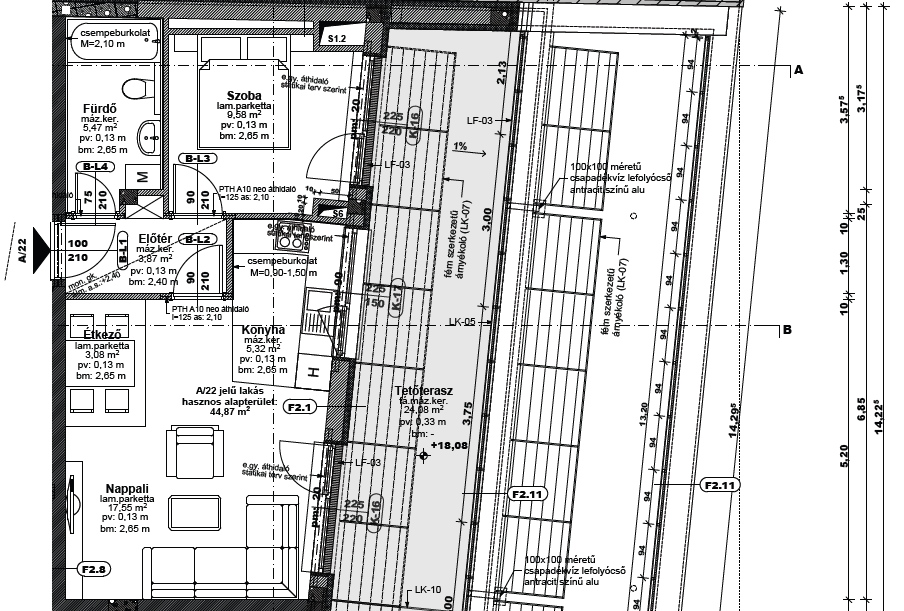
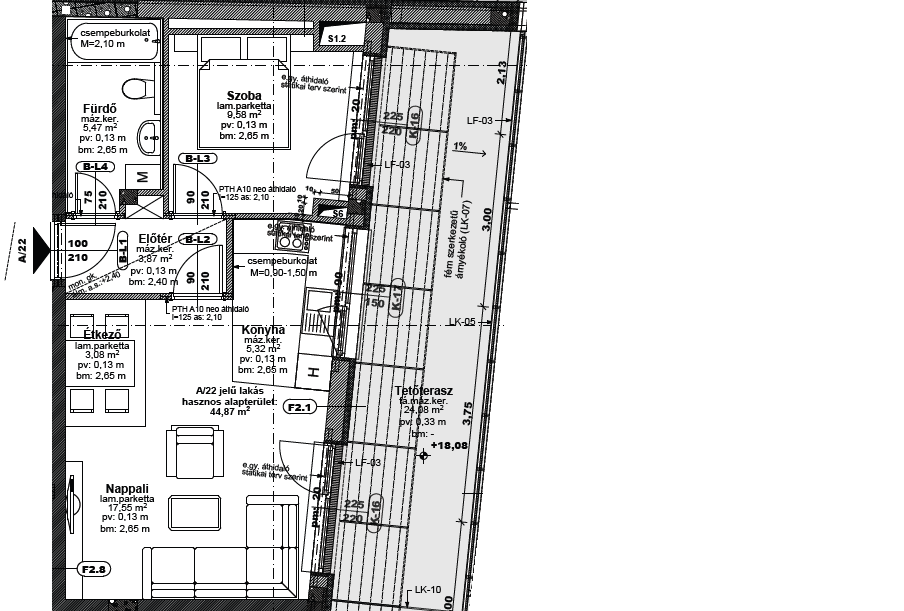
Add 3D apartment images

diff --git a/templates/index.html b/templates/index.html
@@ -153,6 +153,64 @@
     .badge-noshow     { background: #fbd38d; color: #7b341e; }
     .badge-default    { background: #e2e8f0; color: #4a5568; }
 
+    /* ── Floor plan modal ────────────────────────────────────────────── */
+    .modal-overlay {
+      display: none;
+      position: fixed;
+      inset: 0;
+      background: rgba(0,0,0,.6);
+      z-index: 100;
+      align-items: center;
+      justify-content: center;
+    }
+    .modal-overlay.open { display: flex; }
+    .modal-box {
+      background: #fff;
+      border-radius: 12px;
+      padding: 20px;
+      max-width: 90vw;
+      max-height: 90vh;
+      display: flex;
+      flex-direction: column;
+      gap: 12px;
+      box-shadow: 0 8px 32px rgba(0,0,0,.3);
+    }
+    .modal-header {
+      display: flex;
+      align-items: center;
+      justify-content: space-between;
+      gap: 16px;
+    }
+    .modal-title { font-size: 1rem; font-weight: 700; color: #1f4e79; }
+    .modal-close {
+      background: none;
+      border: none;
+      font-size: 1.4rem;
+      cursor: pointer;
+      color: #718096;
+      line-height: 1;
+    }
+    .modal-close:hover { color: #1a202c; }
+    .modal-img {
+      max-width: 100%;
+      max-height: 75vh;
+      object-fit: contain;
+      border-radius: 6px;
+      border: 1px solid #e2e8f0;
+    }
+    .btn-floorplan {
+      background: #ebf4ff;
+      border: 1px solid #bee3f8;
+      color: #1f4e79;
+      border-radius: 6px;
+      padding: 3px 9px;
+      font-size: .78rem;
+      font-weight: 600;
+      cursor: pointer;
+      white-space: nowrap;
+    }
+    .btn-floorplan:hover { background: #bee3f8; }
+
     /* ── Empty / error state ──────────────────────────────────────────── */
     .empty {
       text-align: center;
@@ -226,6 +284,7 @@
     <thead>
       <tr>
         <th>Room</th>
+        <th>Alaprajz</th>
         <th>Check-in</th>
         <th>Check-out</th>
         <th>Nights</th>
@@ -239,7 +298,7 @@
       </tr>
     </thead>
     <tbody id="res-body">
-      <tr><td colspan="11">
+      <tr><td colspan="12">
         <div class="empty"><div class="icon">⏳</div><p>Loading…</p></div>
       </td></tr>
     </tbody>
@@ -301,7 +360,7 @@
   function renderRows(rows) {
     const tbody = document.getElementById("res-body");
     if (!rows.length) {
-      tbody.innerHTML = `<tr><td colspan="11">
+      tbody.innerHTML = `<tr><td colspan="12">
         <div class="empty"><div class="icon">📭</div><p>No reservations found for this period.</p></div>
       </td></tr>`;
       return;
@@ -313,9 +372,15 @@
       return d !== 0 ? d : (a.room || "").localeCompare(b.room || "");
     });
 
-    tbody.innerHTML = rows.map((r, i) => `
+    tbody.innerHTML = rows.map((r, i) => {
+      const plan = getFloorPlan(r.room);
+      const fpBtn = plan
+        ? `<button class="btn-floorplan" onclick="openFpModal(${JSON.stringify(r.room)})">🗺 ${plan.label}</button>`
+        : '—';
+      return `
       <tr class="${rowClass(r, i)}">
         <td><strong>${r.room || "—"}</strong></td>
+        <td>${fpBtn}</td>
         <td>${r.check_in  || "—"}</td>
         <td>${r.check_out || "—"}</td>
         <td style="text-align:center">${r.nights ?? "—"}</td>
@@ -327,7 +392,7 @@
         <td style="max-width:240px;white-space:pre-wrap">${r.note || ""}</td>
         <td>${r.channel || "—"}</td>
       </tr>
-    `).join("");
+    `}).join("");
   }
 
   // ── Load reservations from API ────────────────────────────────────────────
@@ -366,8 +431,59 @@
     window.location.href = `/export/excel?date_from=${from}&date_to=${to}`;
   }
 
+  // ── Floor plan mapping ────────────────────────────────────────────────────
+  const FLOOR_PLANS = {
+    'pince': { file: 'Pince.png',       label: 'Pince' },
+    '0':     { file: 'Földszint.png',   label: 'Földszint' },
+    '1':     { file: 'I. emelet.png',   label: 'I. emelet' },
+    '2':     { file: 'II. emelet.png',  label: 'II. emelet' },
+    '3':     { file: 'III. emelet.png', label: 'III. emelet' },
+    '4':     { file: 'IV. emelet.png',  label: 'IV. emelet' },
+    '5':     { file: 'V. emelet.png',   label: 'V. emelet' },
+    '6':     { file: 'VI. emelet.png',  label: 'VI. emelet' },
+  };
+
+  function getFloorPlan(roomName) {
+    if (!roomName) return null;
+    const lower = roomName.toLowerCase();
+    if (lower.startsWith('p') || lower.includes('pince')) return FLOOR_PLANS['pince'];
+    const match = roomName.match(/\d/);
+    if (!match) return null;
+    return FLOOR_PLANS[match[0]] || null;
+  }
+
+  function openFpModal(roomName) {
+    const plan = getFloorPlan(roomName);
+    if (!plan) return;
+    document.getElementById('fp-modal-title').textContent = roomName + ' — ' + plan.label;
+    document.getElementById('fp-modal-img').src = '/static/images/' + encodeURIComponent(plan.file);
+    document.getElementById('fp-modal').classList.add('open');
+  }
+
+  function closeFpModal(e) {
+    if (e && e.target !== document.getElementById('fp-modal')) return;
+    document.getElementById('fp-modal').classList.remove('open');
+    document.getElementById('fp-modal-img').src = '';
+  }
+
+  document.addEventListener('keydown', e => {
+    if (e.key === 'Escape') document.getElementById('fp-modal').classList.remove('open');
+  });
+
   // ── Initial load ──────────────────────────────────────────────────────────
   loadReservations();
 </script>
+
+<!-- Floor plan modal -->
+<div class="modal-overlay" id="fp-modal" onclick="closeFpModal(event)">
+  <div class="modal-box">
+    <div class="modal-header">
+      <span class="modal-title" id="fp-modal-title"></span>
+      <button class="modal-close" onclick="closeFpModal()">✕</button>
+    </div>
+    <img class="modal-img" id="fp-modal-img" src="" alt="Alaprajz" />
+  </div>
+</div>
+
 </body>
 </html>
